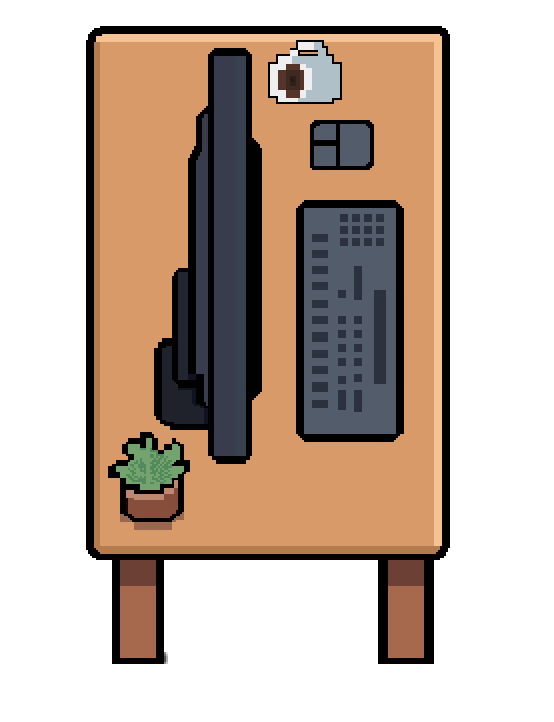
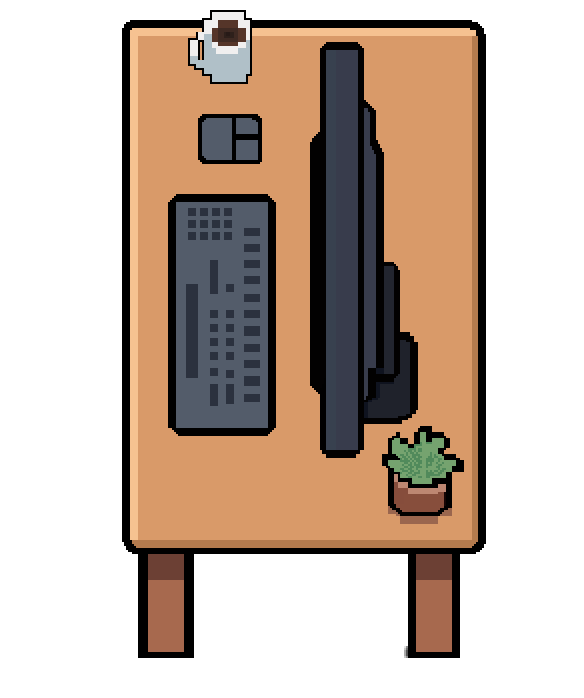
ajuste de mesa para -x

diff --git a/docs/ajuste-mapa-oficina.md b/docs/ajuste-mapa-oficina.md
@@ -14,9 +14,9 @@ El archivo editable es [`scripts/office-layout.mjs`](../scripts/office-layout.mj
 | `depth: {axis,offset,behindSide,secondary?}` | Línea de profundidad. `axis` es `x` o `y`; su coordenada en el mapa es `position[axis] + offset × scale`. `behindSide: 'positive'` significa que el valor de los pies es mayor que esa coordenada; `'negative'`, que es menor. Si existe `secondary`, también debe cumplirse: delimita qué parte de la primera línea cuenta como detrás. Esta decisión determina quién se dibuja encima, sin cambiar la colisión. |
 | `renderOrder` | Orden entre muebles que se cruzan en el mismo plano del avatar: el número mayor se dibuja después. La silla izquierda tiene 10 y su escritorio 20, de modo que la mesa cubre el solapamiento. Las sillas derechas conservan 30 frente a 20 de sus mesas. |
 
-En `westDesk` se miden, sobre el PNG original, el borde posterior del tablero (`top:34`), su borde frontal (`front:554`) y la punta de las patas (`legTip:662`). El collider ocupa `x:94…442` y `y:142…662`: se retira 108 px del PNG por detrás, la misma longitud de las patas, y se extiende hasta sus puntas por delante. Con `position:{x:305.7,y:706.8}`, `scale:0.3` y `pivot:{x:277,y:662}`, sus límites en el mapa son `x:250.8…355.2`, `y:550.8…706.8`. El tablero visible llega por delante a `y:674.4`. La caja de pies del avatar mide 30 × 12 px y se detiene desde delante con el punto de pies cerca de `y:718.8`, dejando la cintura aproximadamente a la altura de ese borde visible. Desde detrás, los pies llegan a `y:550.8`, 32.4 px dentro del contorno visual posterior.
+En `westDesk` se miden, sobre `escritorio -x.png`, el borde posterior del tablero (`top:28`), su borde frontal (`front:548`) y la punta de las patas (`legTip:656`). El collider ocupa `x:130…478` y `y:136…656`: se retira 108 px del PNG por detrás, la misma longitud de las patas, y se extiende hasta sus puntas por delante. Con `position:{x:305.7,y:706.8}`, `scale:0.3` y `pivot:{x:313,y:656}`, sus límites en el mapa siguen siendo `x:250.8…355.2`, `y:550.8…706.8`. El tablero visible llega por delante a `y:674.4`. La caja de pies del avatar mide 30 × 12 px y se detiene desde delante con el punto de pies cerca de `y:718.8`, dejando la cintura aproximadamente a la altura de ese borde visible. Desde detrás, los pies llegan a `y:550.8`, 32.4 px dentro del contorno visual posterior.
 
-Para mover **sólo el límite izquierdo** del escritorio lateral 6 px del mapa hacia la izquierda, cambia `westDesk.left:94→74`; para mover sólo el derecho 6 px a la derecha, cambia `westDesk.right:442→462`. Para bajar sólo el límite posterior 6 px en el mapa, aumenta `westDesk.top` en 20 px del PNG. Para acercar más el avatar por delante 6 px sin mover el límite posterior, aumenta `westDesk.legTip` en 20 px y disminuye `westDesk.top` en 20 px. `front` define tanto la longitud usada para la entrada posterior como la referencia visual de profundidad: ajústalo al borde del tablero, no al monitor. Los dos escritorios orientados hacia abajo comparten las medidas `southDesk` y tienen `position` independientes (`x:1143` y `x:1482`, `y:886`); cada uno permite 33.6 px de entrada visual posterior y detiene los pies delanteros alrededor de `y:898`.
+Para mover **sólo el límite izquierdo** del escritorio lateral 6 px del mapa hacia la izquierda, cambia `westDesk.left:130→110`; para mover sólo el derecho 6 px a la derecha, cambia `westDesk.right:478→498`. Para bajar sólo el límite posterior 6 px en el mapa, aumenta `westDesk.top` en 20 px del PNG. Para acercar más el avatar por delante 6 px sin mover el límite posterior, aumenta `westDesk.legTip` en 20 px y disminuye `westDesk.top` en 20 px. `front` define tanto la longitud usada para la entrada posterior como la referencia visual de profundidad: ajústalo al borde del tablero, no al monitor. Los dos escritorios orientados hacia abajo comparten las medidas `southDesk` y tienen `position` independientes (`x:1143` y `x:1482`, `y:886`); cada uno permite 33.6 px de entrada visual posterior y detiene los pies delanteros alrededor de `y:898`.
 
 Para cambiar cuándo una mesa pasa delante del avatar, edita `depth.axis`, `depth.offset` o `depth.behindSide`. En los tres escritorios la línea horizontal cruza el borde frontal del tablero (`front`) y considera detrás los pies situados más arriba. En el escritorio lateral, `secondary` exige además que los pies hayan pasado el costado izquierdo de uso; así el avatar sigue dibujado delante cuando se acerca junto a la silla. Para mover la línea horizontal 6 px hacia abajo, suma `20` al `offset` lateral o aproximadamente `21.43` al de las mesas derechas. Los muebles se dibujan siempre opacos. La profundidad no modifica la colisión.
 

diff --git a/08_CONTRATO_ASSETS_Y_MAPAS.md b/08_CONTRATO_ASSETS_Y_MAPAS.md
@@ -4,7 +4,7 @@
 
 ## 1. Objetivo
 
-Integrar una oficina fija de pixel art conservando el diseño de Peredo. `SIN MUEBLESL.png` define el fondo de 1920×1080. Los muebles incorporados contra las paredes permanecen allí; el escritorio lateral `escritorio x.png`, los dos escritorios derechos `escritorio -y.png`, sus sillas y `PLANTASL.png` son objetos separados, con colisión y profundidad propias. El avatar se dibuja sobre todo el fondo y los muebles son opacos. No habrá editor ni muebles movibles para usuarios.
+Integrar una oficina fija de pixel art conservando el diseño de Peredo. `SIN MUEBLESL.png` define el fondo de 1920×1080. Los muebles incorporados contra las paredes permanecen allí; el escritorio lateral `escritorio -x.png`, los dos escritorios derechos `escritorio -y.png`, sus sillas y `PLANTASL.png` son objetos separados, con colisión y profundidad propias. El avatar se dibuja sobre todo el fondo y los muebles son opacos. No habrá editor ni muebles movibles para usuarios.
 
 La expresión “32 bits” es una referencia de estilo del equipo; no fija un tile de 32×32 ni dimensiones de avatar. Registrar ancho/alto reales, escala y pivots antes de exportar todo. No confundir profundidad de color del PNG con cantidad de píxeles del dibujo.
 
@@ -22,7 +22,7 @@ Conservar el fondo original de 1920×1080 sin suavizado ni escalado accidental. 
 |---|---|
 | Oficina | `SIN MUEBLESL.png` define el fondo visible; `total-office.jpeg` es referencia histórica. |
 | Paredes y muebles incorporados | Dibujados detrás del avatar en el fondo. Colliders e interacciones se entregan como metadatos independientes. |
-| Muebles sueltos | `escritorio x.png`, dos instancias de `escritorio -y.png`, `SILLA X.png`, dos instancias de `SILLA Y.png` y `PLANTASL.png` se dibujan como objetos con geometría propia. |
+| Muebles sueltos | `escritorio -x.png`, dos instancias de `escritorio -y.png`, `SILLA X.png`, dos instancias de `SILLA Y.png` y `PLANTASL.png` se dibujan como objetos con geometría propia. |
 | Tren | GIF de paisaje para recortar dentro de las tres ventanas, conservando marcos y paredes. |
 | Avatar hombre/mujer | Frente, espalda, izquierda y derecha; mismo punto de pies por vista. |
 | Ropa | Máscara o capas para recolorear sólo ropa, conservando piel, pelo y sombras. |

diff --git a/docs/validacion.md b/docs/validacion.md
@@ -63,7 +63,7 @@ Los cambios locales de esta alineación no se han publicado. El estado de la pub
 
 ### Oficina mixta — 2026-10-06
 
-`demo-v5` usa `SIN MUEBLESL.png` a 1920×1080 como fondo y los PNG `escritorio x.png`, `SILLA X.png` y `PLANTASL.png` como objetos independientes. Sus valores editables están en `scripts/office-layout.mjs`. Se corrigió la transformación de colliders y máscaras para que aplique el mismo pivot y la misma escala que el sprite; el avatar conserva la caja física pequeña de pies. La opacidad de objetos que lo tapan desde detrás llega gradualmente a 5 %.
+`demo-v5` usa `SIN MUEBLESL.png` a 1920×1080 como fondo y los PNG `escritorio -x.png`, `SILLA X.png` y `PLANTASL.png` como objetos independientes. Sus valores editables están en `scripts/office-layout.mjs`. Se corrigió la transformación de colliders y máscaras para que aplique el mismo pivot y la misma escala que el sprite; el avatar conserva la caja física pequeña de pies. La opacidad de objetos que lo tapan desde detrás llega gradualmente a 5 %.
 
 `npm run build` aprobó TypeScript, las firmas y hashes de 18 imágenes y los builds API/web. `npm test` aprobó ocho pruebas, incluidas las aproximaciones físicas a mesa, silla y maceta, la separación de profundidad y la accesibilidad de las interacciones. En Playwright pasaron 12 recorridos: cinco entradas a la mesa con teclado y joystick en escritorio, las mismas con joystick móvil, biblioteca, cuatro direcciones, pizarrón y cambio de viewport. Cuatro casos fueron omitidos por diseño: teclado en perfil móvil (dos) y tren sin GIF recibido (dos). Se inspeccionaron las capturas de escritorio y móvil. El proceso de Playwright completó los casos pero quedó abierto al cerrar el servidor de desarrollo en Windows; se interrumpió después de obtener los resultados.
 

diff --git a/docs/assets.md b/docs/assets.md
@@ -28,7 +28,7 @@ Base de las rutas: `legacy/pre-alpha/assets/images/`. Estos diecisiete archivos 
 
 También se recibieron `legacy/pre-alpha/assets/gifs/avatar/man/avatar-hombre-X.gif`, `avatar-hombreX.gif`, `avatar-hombreY.gif` y `avatar-hombre-Y.gif`, todos de 45 × 66 píxeles. Sus secuencias tienen respectivamente 3, 3, 2 y 2 cuadros. Los PNG representan reposo y los GIF movimiento. `-X` corresponde a izquierda/A, `X` a derecha/D, `Y` a arriba/W y `-Y` a abajo/S.
 
-`SIN MUEBLESL.png` define el fondo visible. `escritorio x.png`, dos instancias de `escritorio -y.png`, `SILLA X.png`, dos instancias de `SILLA Y.png` y `PLANTASL.png` se colocan como objetos separados; las demás piezas permanecen como originales recibidos. `total-office.jpeg` guía su distribución. El avatar conserva la correspondencia de direcciones indicada arriba.
+`SIN MUEBLESL.png` define el fondo visible. `escritorio -x.png`, dos instancias de `escritorio -y.png`, `SILLA X.png`, dos instancias de `SILLA Y.png` y `PLANTASL.png` se colocan como objetos separados; las demás piezas permanecen como originales recibidos. `total-office.jpeg` guía su distribución. El avatar conserva la correspondencia de direcciones indicada arriba.
 
 ## Paquete todavía incompleto
 
